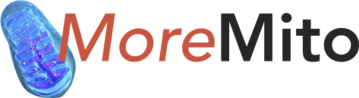
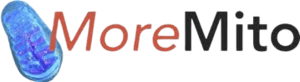
01/01/2024 12:15AM

diff --git a/index.html b/index.html
@@ -96,7 +96,7 @@
                     </div>
                     <div class="carousel-item">
                         <div class="c-item">
-                            <img src="image/more_moto.png" alt="more_moto">
+                            <img src="image/more_moto.png" alt="more_moto" class="more_moto_image">
                             <div class="label-img">mitochondria</div>
                             <p>Maintaining good health in the workplace is crucial for both employees and employers. A healthy workforce is not just a benefit; it's a necessity for a thriving business. Here's why:</p> 
                             <button class="btn btn-outline-primary m-5 w-lg-25 align-self-center" onclick="window.location='mitochondria_info.html'">Learn more</button>      

diff --git a/css/homepage.css b/css/homepage.css
@@ -166,10 +166,16 @@ body{
     height: 95vh;
     padding: 10px 30px;
 }
-.c-item > img{
+.c-item > img:not(.more_moto_image){
     max-width: 250px;
     height: 15rem;
     align-self: center;
+}
+.c-item > .more_moto_image{
+    max-width: 250px;
+    height: 6rem;
+    align-self: center;
+    margin: 12%;
 }
 .neumi{
     border-radius: 10px/10px;
